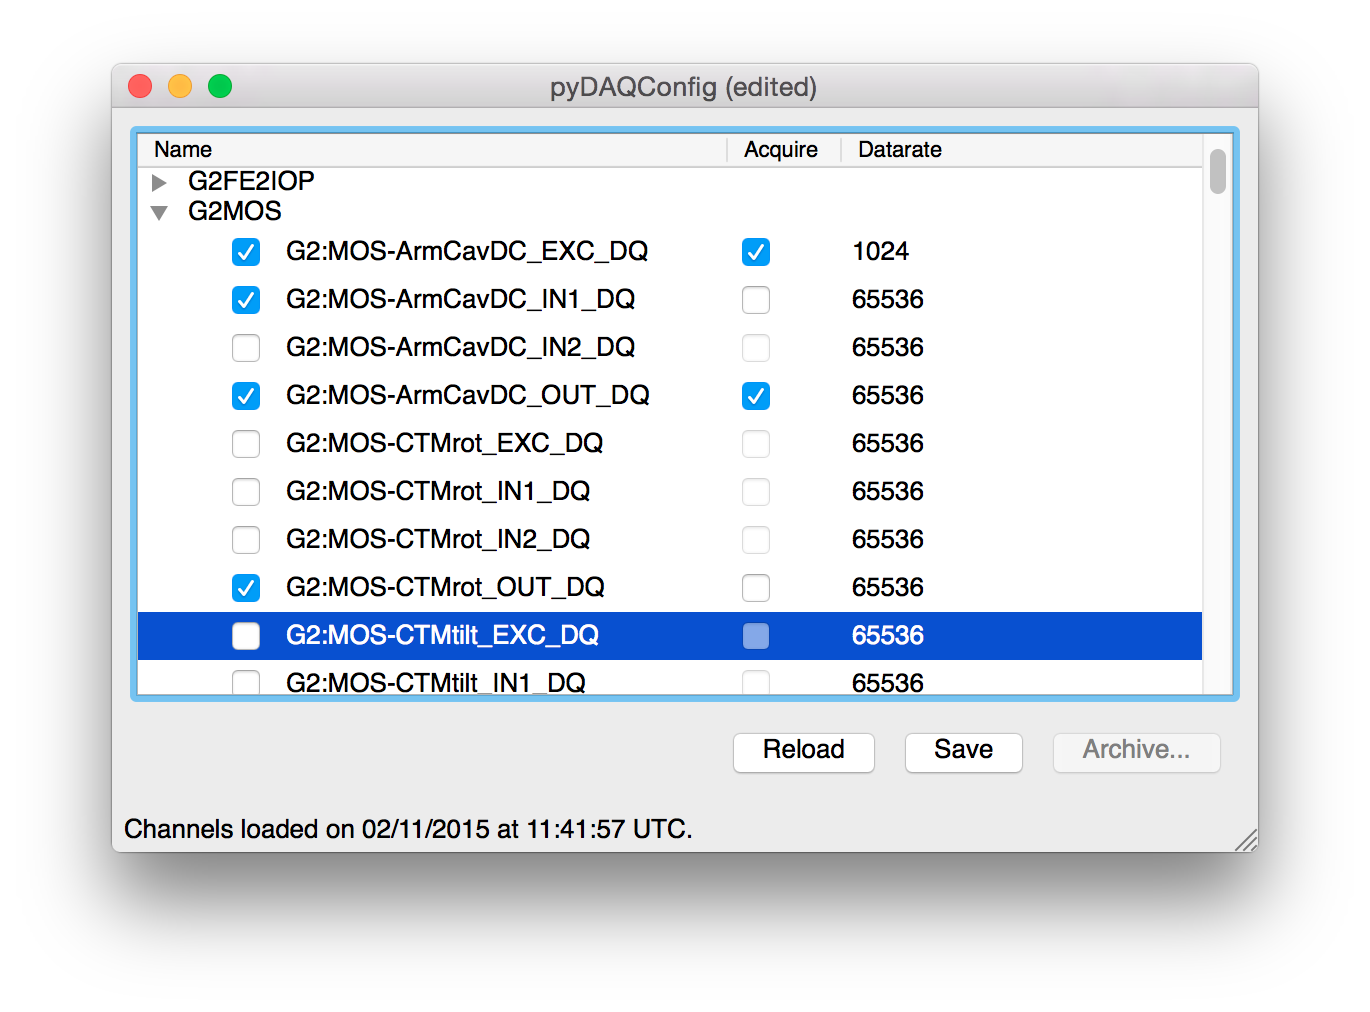
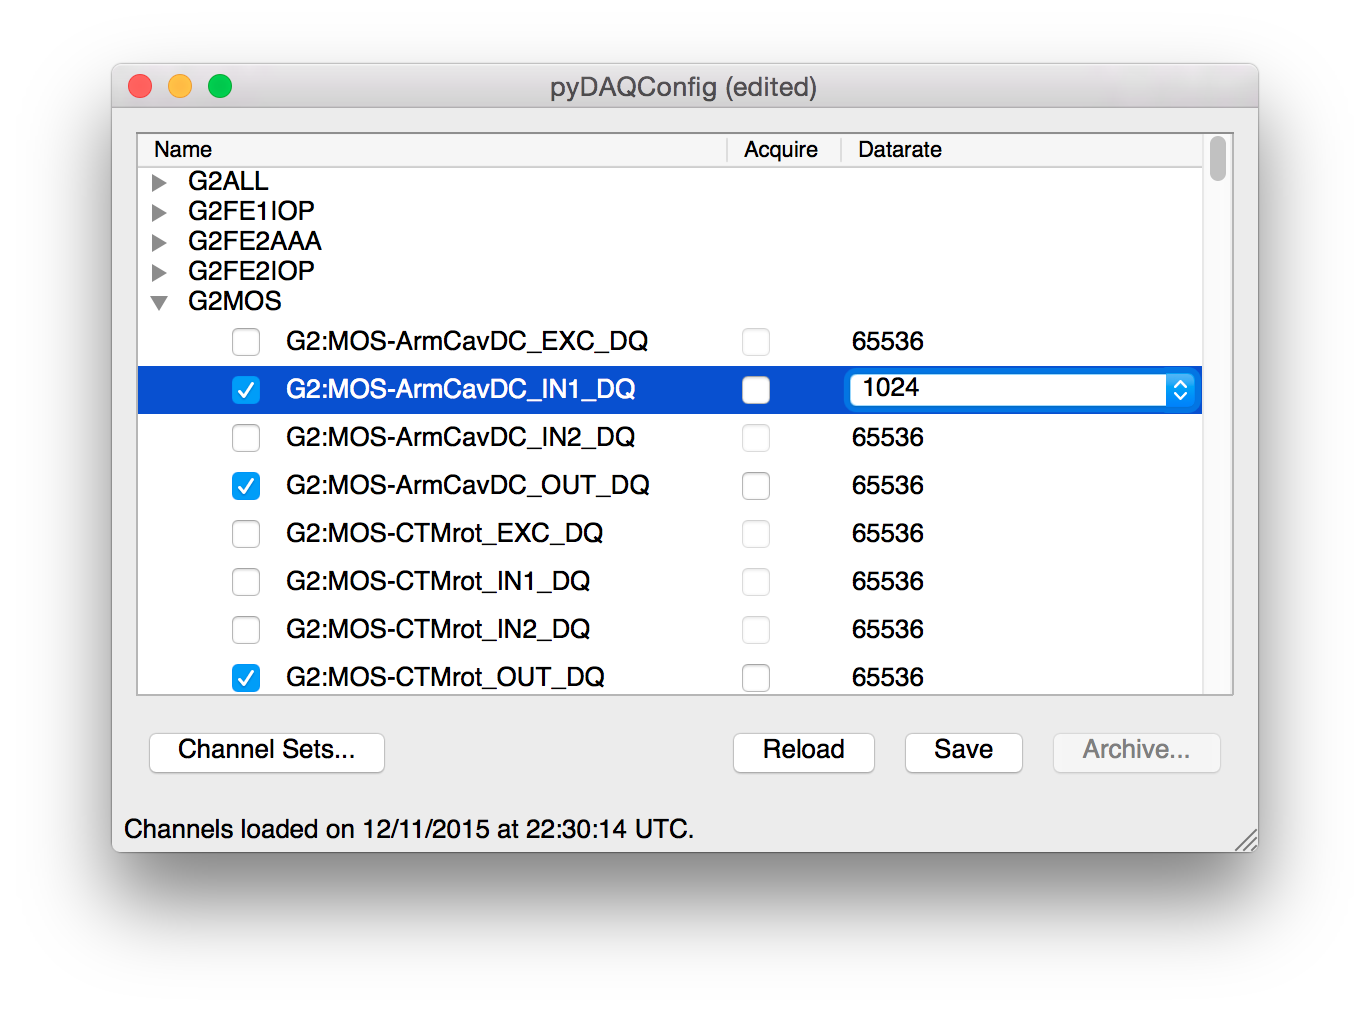
added channelsets image to doc

diff --git a/README.md b/README.md
@@ -36,6 +36,8 @@ and sets them to acquire data. Clicking _Deactivate_ turns of data acquisition,
 however it leaves the channel enabled so that data can be retrieved via e.g.
 _ligoDV_.
 
+<img src="./doc/channelsets.png" width="350" />
+
 Copyright
 ---------
 This work is licensed under the Creative Commons Attribution-NonCommercial-
